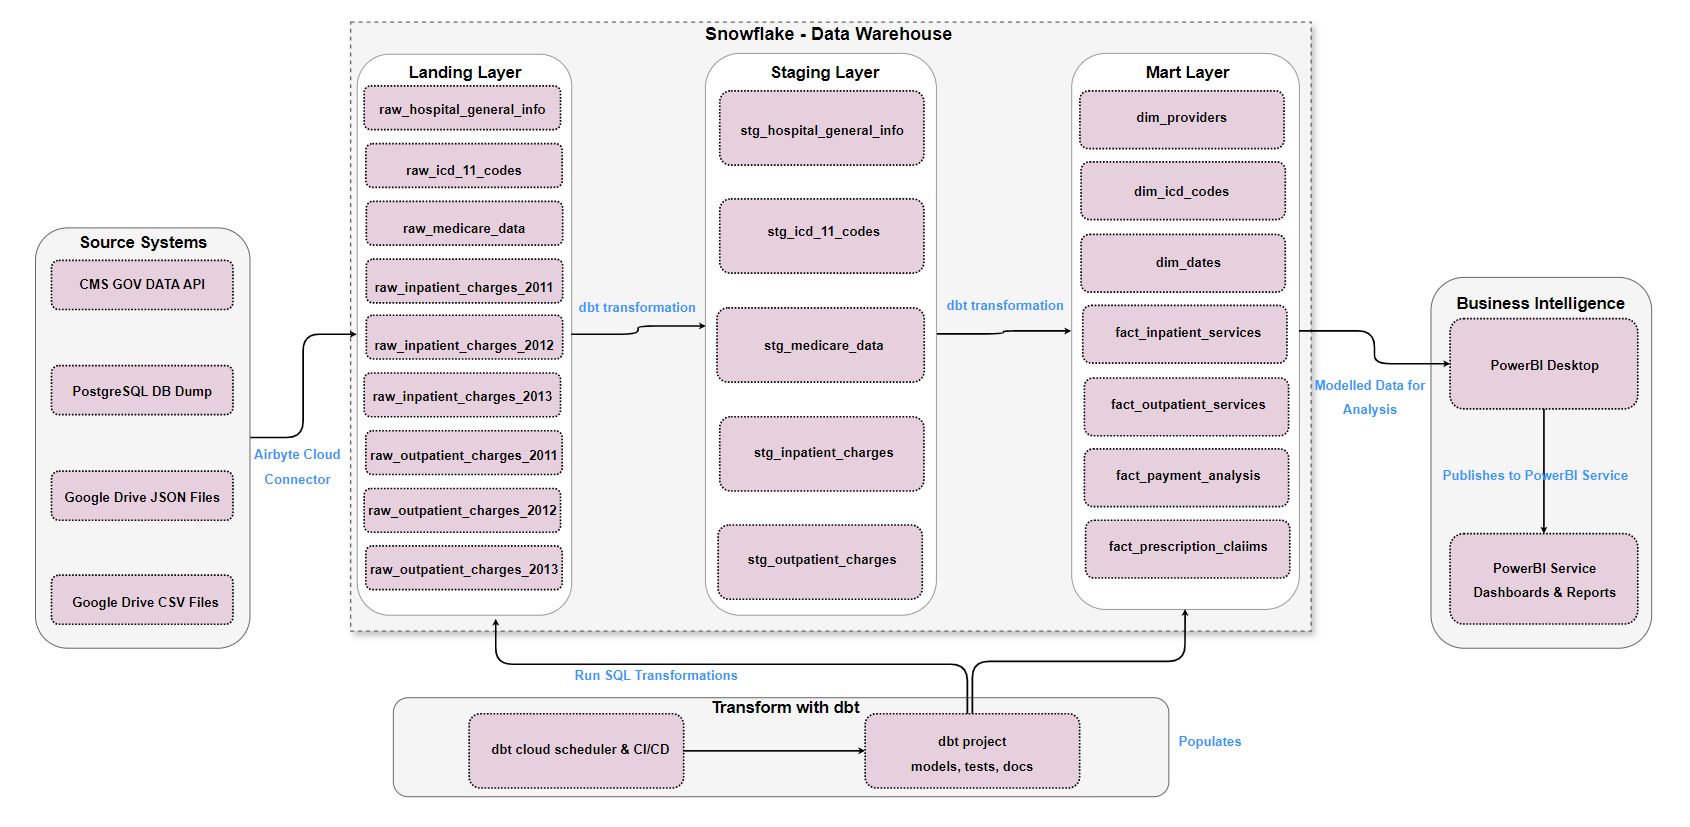
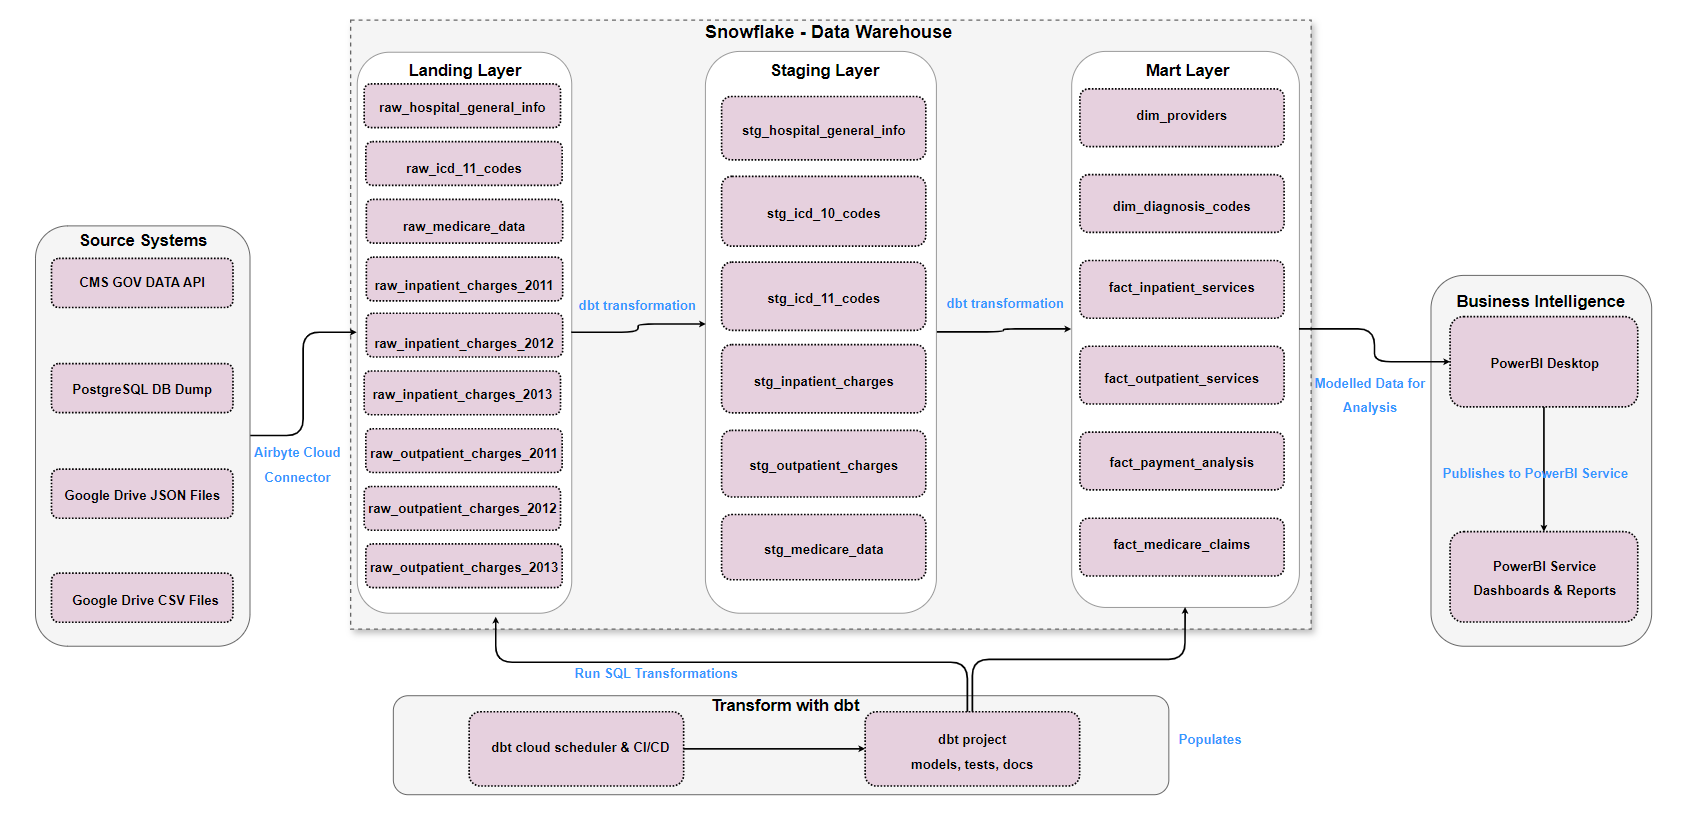
update readme

diff --git a/README.md b/README.md
@@ -1,120 +1,276 @@
-# The Data Ingestion Story: From Multiple Sources to Snowflake Raw
-
-![Architecture](/docs/ELT_architecture.png)
-
-## Chapter 1: Laying the Foundation
-
-I started by building my data warehouse foundation in **Snowflake**. I created dedicated entities—`HEALTHCARE_RAW_DB` database, `RAW` schema, and `AIRBYTE_HEALTHCARE` role—to ensure clean separation and cost tracking for ingestion.
-
-![Sources](/docs/sources_airbyte.png)
-
-## Chapter 2: The First Connection - Google Sheets
-
-My journey began with the simplest sources: **Google Sheets**. I connected two critical reference files:
-- **Hospital General Info**: Master data about healthcare facilities
-- **ICD-11 Codes**: Medical classification codes
-
-In Airbyte Cloud, I used the Google Sheets connector, pasted the spreadsheet URLs, and watched as the structured tabular data flowed seamlessly into Snowflake's raw layer. Two tables were born: `_AIRBYTE_RAW_GSHEETS_HOSPITAL_INFO` and `_AIRBYTE_RAW_GSHEETS_ICD_CODES`.
-
-## Chapter 3: Bridging the Local Gap with Ngrok
-
-Next, I tackled my **local PostgreSQL database** containing outpatient charge data from 2011-2013. Since Airbyte Cloud couldn't access my local machine directly, I used **ngrok** to create a secure tunnel. 
-
-I exposed port 5432 to the internet with a simple command: `ngrok tcp 5432`. The magic happened when I took the generated public URL and configured it in Airbyte's PostgreSQL source. Suddenly, my local tables (`outpatient_charges_2011`, `2012`, `2013`) were replicating to Snowflake as if they were in the cloud all along.
-
-## Chapter 4: Taming Unstructured JSON from Google Drive
-
-The most challenging part was the **JSON files** in Google Drive—`inpatient_2011.json`, `2012.json`, `2013.json`. These contained arrays of unstructured patient data. 
-
-The breakthrough came when I used Airbyte's **User Schema** feature. I defined the structure upfront, telling Airbyte how to interpret each field. The JSONL format transformed those nested arrays into clean, typed columns in `_AIRBYTE_RAW_GDRIVE_INPATIENT`.
-
-## Chapter 5: The Rest API Connection
-
-Finally, I connected to the **Medicare API**, this API provides Medicare Part D prescription drug data showing what medications physicians prescribed, including costs, volumes, and geographic patterns for 2013.. The HTTP connector in Airbyte made this surprisingly simple—just the API endpoint and authentication details. I set it to incremental sync mode, ensuring only new data would transfer each month.
-
-## The Grand Finale: Unified Raw Data
-
-Within hours, I had built a robust pipeline ingesting from four disparate sources into a single **Snowflake RAW schema**. The data journey was complete:
-
-- ✅ **Google Sheets** → Reference tables
-- ✅ **PostgreSQL (via Ngrok)** → Historical outpatient data  
-- ✅ **Google Drive JSON** → Inpatient records
-- ✅ **Medicare API** → Physician prescribing patterns, drug costs & geographic data for 2013
-
-![Snowflake_RAW](/docs/snowflake_db_raw.png)
-
-All landing neatly in structured tables, ready for the next transformation phase with dbt. The raw healthcare data ecosystem was alive!
-
----
-*Next Chapter: Transforming raw data into analytics-ready models with dbt Cloud...*
-# Chapter 6: The Transformation Journey with dbt Cloud
-
-## Building the Staging Layer Foundation
-With all raw data securely in Snowflake, I began the transformation phase using dbt Cloud.  
-**Goal**: create a clean, consistent staging layer that would serve as the foundation for analytical models.
 
 ---
 
-## The Staging Layer Architecture
-I built 5 comprehensive staging models that transformed **81,710 records** from disparate sources into analytics-ready datasets:
+````markdown
+# 🏥 Healthcare Data Platform — End-to-End Ingestion & Transformation Pipeline
 
-### 🏥 stg_hospitals (5,336 records)
-- **Source**: Hospital general information from Google Sheets  
-- **Transformations**: Dropped 4 high-NULL columns, converted emergency services to boolean, standardized 20+ quality metrics  
-- **Key Insight**: Perfect geographic coverage across 56 states with hospital ratings (1-5 scale)
+## 📘 Overview
+This project demonstrates an **end-to-end ELT pipeline** that ingests, transforms, and models healthcare data from multiple sources into **Snowflake**, powered by **Airbyte** for ingestion and **dbt Cloud** for transformation.
 
----
-
-### 💊 stg_medicare_data (931 records)
-- **Source**: Medicare Part D prescription drug API  
-- **Transformations**: Converted string numerics to proper types, standardized boolean flags, created composite drug keys  
-- **Key Insight**: Physician prescribing patterns with cost and volume data for 2013  
+The pipeline integrates structured, semi-structured, and API-based data sources to deliver an analytics-ready healthcare data mart.
 
 ---
 
-### 🏥 stg_inpatient_visits (30,000 records)
-- **Source**: 3 years of inpatient data (2011-2013) oogle Drive JSON  
-- **Transformations**: Combined years with explicit `service_year` column, cleaned provider data, standardized financial metrics  
-- **Key Insight**: 100% data completeness with discharge volumes from 11–1,328 per provider  
+## 🧱 Architecture
+
+![ELT Architecture](/docs/ELT_architecture.png)
+
+**Components**
+- **Airbyte Cloud** → Data ingestion from 4 unique sources  
+- **Snowflake** → Centralized data warehouse  
+- **dbt Cloud** → Transformation, testing, and modeling  
+- **Snowflake Worksheets** → EDA and validation
 
 ---
 
-### 🩺 stg_outpatient_visits (9,315 records)
-- **Source**: 3 years of outpatient data (2011-2013) from PostgreSQL  
-- **Transformations**: Year integration, text cleaning, data type consistency  
-- **Key Insight**: Perfect data quality maintained across all 14 columns  
+## ⚙ Data Ingestion (Airbyte → Snowflake RAW)
+
+### 1. Google Sheets (Reference Data)
+**Sources**
+- `Hospital General Info`
+- `ICD-10 Codes`
+- `ICD-11 Codes`
+
+**Connector**: Google Sheets → Snowflake  
+**Destination Tables**
+- `_AIRBYTE_RAW_GSHEETS_HOSPITAL_INFO`
+- `_AIRBYTE_RAW_GSHEETS_ICD_CODES`
 
 ---
 
-### 📋 stg_icd_11_codes (36,128 records)
-- **Source**: Disease classification codes from Google Drive JSON  
-- **Transformations**: Strategic column dropping (>65% NULL threshold), boolean conversions, hierarchy preservation  
-- **Key Insight**: Comprehensive medical terminology with 8-level classification hierarchy  
+### 2. PostgreSQL (Historical Data via Ngrok)
+**Description**: Outpatient charge data (2011–2013) from local PostgreSQL database  
+**Setup**
+```bash
+ngrok tcp 5432
+````
+
+**Connector**: PostgreSQL → Snowflake via public ngrok endpoint
+**Destination Tables**
+
+* `_AIRBYTE_RAW_POSTGRES_OUTPATIENT_2011`
+* `_AIRBYTE_RAW_POSTGRES_OUTPATIENT_2012`
+* `_AIRBYTE_RAW_POSTGRES_OUTPATIENT_2013`
 
 ---
 
-## Data Quality Excellence
+### 3. Google Drive (Unstructured JSON)
 
-Through rigorous Exploratory Data Analysis (EDA) using Snowflake worksheets, I established:
+**Description**: Inpatient discharge data (`inpatient_2011.json`, `2012.json`, `2013.json`)
+**Connector**: Google Drive → Snowflake
+**Approach**
 
-- ✅ 100% completeness for inpatient and outpatient datasets  
-- ✅ Strategic NULL handling with evidence-based column retention  
-- ✅ Type safety with proper casting to **INTEGER, FLOAT, and BOOLEAN**  
-- ✅ Consistent naming conventions across all models  
-
----
-
-# The Staging Layer Triumph
-
-![Snowflake_STG](/docs/snowflake_db_stg.png)
-
-I successfully transformed raw, disparate healthcare data into a unified staging layer.  
-The data journey evolved from:
-
-The foundation is now set for the most exciting phase: **building analytical models that will reveal actionable healthcare insights.**
+* Used **User Schema Definition** feature to predefine structure for JSON arrays
+* Converted to JSONL and loaded into `_AIRBYTE_RAW_GDRIVE_INPATIENT`
 
 ---
 
-## Next Chapter...
-**Building the analytical mart layer — transforming clean data into business intelligence...**
+### 4. Medicare REST API
+
+**Description**: Medicare Part D prescription drug data (2013)
+**Connector**: HTTP API → Snowflake
+**Configuration**
+
+* Incremental sync mode
+* API authentication via token
+  **Destination Table**
+* `_AIRBYTE_RAW_API_MEDICARE`
+
+---
+
+### ✅ Unified Raw Layer
+
+All raw datasets land in `HEALTHCARE_RAW_DB.RAW` within Snowflake.
+
+| Source        | Connector          | Table Prefix             | Data Type       |
+| ------------- | ------------------ | ------------------------ | --------------- |
+| Google Sheets | Sheets → Snowflake | `_AIRBYTE_RAW_GSHEETS_`  | Structured      |
+| PostgreSQL    | Ngrok Tunnel       | `_AIRBYTE_RAW_POSTGRES_` | Relational      |
+| Google Drive  | JSON               | `_AIRBYTE_RAW_GDRIVE_`   | Semi-Structured |
+| REST API      | HTTP               | `_AIRBYTE_RAW_API_`      | Incremental     |
+
+![Snowflake RAW Schema](/docs/snowflake_db_raw.png)
+
+---
+
+## 🧩 Transformation (dbt Cloud → Staging & Marts)
+
+### Project Goals
+
+* Clean and standardize all ingested data
+* Establish a **reliable staging layer**
+* Build **business-ready marts** for analytics
+
+---
+
+## 🧮 Staging Layer (Snowflake + dbt Cloud)
+
+### Summary
+
+| Model                     | Source            | Records | Description                                                 |
+| -----------------------   | ----------------- | ------- | ----------------------------------------------------------- |
+| `stg_hospital_general_info| Google Sheets     | 5,336   | Cleansed hospital metadata, standardized quality metrics    |
+| `stg_medicare_data`       | Medicare API      | 931     | Normalized drug cost & volume fields                        |
+| `stg_inpatient_visits`    | Google Drive JSON | 30,000  | Combined yearly inpatient data with standardized financials |
+| `stg_outpatient_visits`   | PostgreSQL        | 9,315   | Unified 3-year outpatient data                              |
+| `stg_icd_10_codes`        | Google Sheets     | 1,871   | Structured ICD-10 hierarchy                                 |
+| `stg_icd_11_codes`        | Google Sheets     | 36,128  | Structured ICD-11 hierarchy                                 |
+
+**Quality Checks**
+
+* 100% completeness for patient data
+* Consistent naming (snake_case)
+* Correct numeric & boolean data types
+* Strategic NULL handling based on column thresholds
+
+![Snowflake STG Schema](/docs/snowflake_db_stg.png)
+
+---
+
+## 🧠 Analytics Mart Layer (dbt Cloud)
+
+### Overview
+
+6 production-ready models built using **dimensional modeling** principles (star schema).
+All marts are **materialized as tables** for high-performance analytics.
+
+---
+
+### 1. `fact_payment_analysis`
+
+**Purpose:** Unified Medicare payment comparison (inpatient + outpatient)
+**Features**
+
+* Provider-level ranking
+* Payment-to-charge efficiency
+* Multi-year trend analysis
+
+---
+
+### 2. `dim_providers`
+
+**Purpose:** Single provider reference table
+**Features**
+
+* Geographic hierarchy (State → City → Zip)
+* Emergency service flags
+* Quality rating metrics
+
+---
+
+### 3. `dim_diagnosis_codes`
+
+**Purpose:** ICD-10 and ICD-11 integrated dimension
+**Features**
+
+* Hierarchical disease categorization
+* Clinical pattern mapping
+
+---
+
+### 4. `fact_outpatient_services`
+
+**Purpose:** Analyze APC service charge trends
+**Features**
+
+* Provider–APC–Year metrics
+* Efficiency ratio & service categorization
+
+---
+
+### 5. `fact_inpatient_services`
+
+**Purpose:** Inpatient discharge & payment analysis
+**Features**
+
+* Provider–ICD–Year metrics
+* Clinical prevalence trends by state
+
+---
+
+### 6. `fact_medicare_claims`
+
+**Purpose:** Prescription drug claims aggregation
+**Features**
+
+* Drug–Year–Cost rollup
+* Therapeutic category analysis
+
+---
+
+## 🏗 Architecture Standards
+
+| Area              | Standard                                            |
+| ----------------- | --------------------------------------------------- |
+| **Modeling**      | Star schema with conformed dimensions               |
+| **Naming**        | snake_case for columns & models                     |
+| **Data Quality**  | dbt tests (`unique`, `not_null`, `accepted_values`) |
+| **Performance**   | Table materialization + Snowflake clustering        |
+| **Documentation** | YAML schema + description fields for all models     |
+
+---
+
+## 💼 Business Use Cases
+
+| Requirement                  | Model                                             | Description                       |
+| ---------------------------- | ------------------------------------------------- | --------------------------------- |
+| Payment ranking per provider | `fact_payment_analysis`                           | Medicare performance benchmarking |
+| Service trend analysis       | `fact_outpatient_services`                        | Time-series charge analytics      |
+| Geographic affordability     | `dim_providers`                                   | State-level provider comparison   |
+| Diagnosis pattern analysis   | `fact_inpatient_services` + `dim_diagnosis_codes` | Top ICD-11 diagnosis trends       |
+
+---
+
+## 📊 Expected Outcomes
+
+### Healthcare Administrators
+
+* Provider benchmarking & regional performance tracking
+* Gap analysis in hospital service coverage
+
+### Clinical Teams
+
+* Diagnosis pattern insights by geography
+* Data-backed resource planning
+
+### Financial Analysts
+
+* Cost efficiency and payment ratio analysis
+* Forecasting based on multi-year trends
+
+### Public Health Analysts
+
+* Drug utilization pattern tracking
+* Elderly population medication cost analysis
+
+---
+
+## 🚀 Deployment Summary
+
+| Layer   | Tool      | Materialization | Status     |
+| ------- | --------- | --------------- | ---------- |
+| RAW     | Airbyte   | Tables          | ✅ Complete |
+| STAGING | dbt Cloud | Views           | ✅ Complete |
+| MARTS   | dbt Cloud | Tables          | ✅ Complete |
+
+**Final Output:**
+A unified, analytics-ready Snowflake data warehouse supporting healthcare insights across financial, clinical, and pharmaceutical domains.
+
+---
+
+## 🧭 Next Steps
+
+* Integrate Looker Studio / Power BI for visualization
+* Add CI/CD automation for dbt jobs via GitHub Actions
+* Extend API ingestion to include Medicare datasets (2014–2015)
+
+---
+
+**Author:** Ronald Muguna
+**Tech Stack:** Airbyte | Snowflake | dbt Cloud | PostgreSQL | REST API | Ngrok
+**Status:** ✅ Production-Ready
+
+```
+
+---
 
